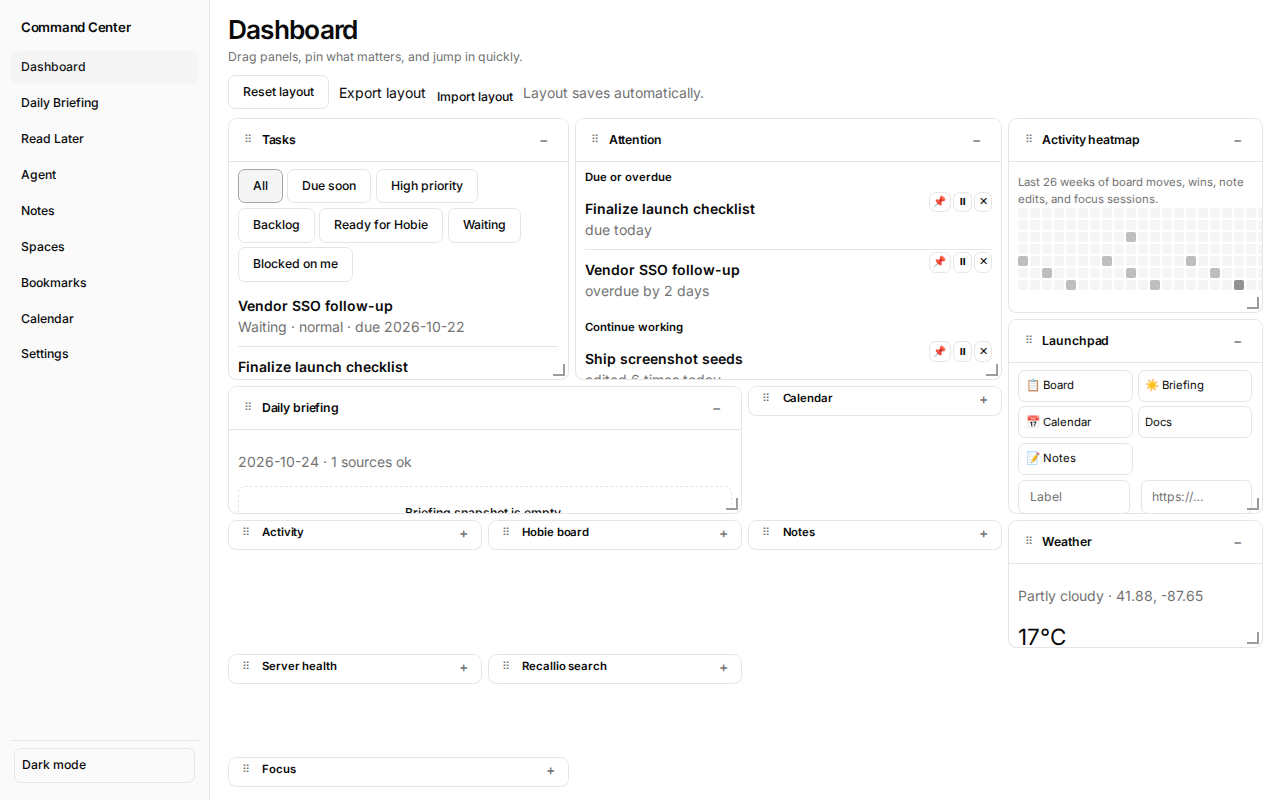
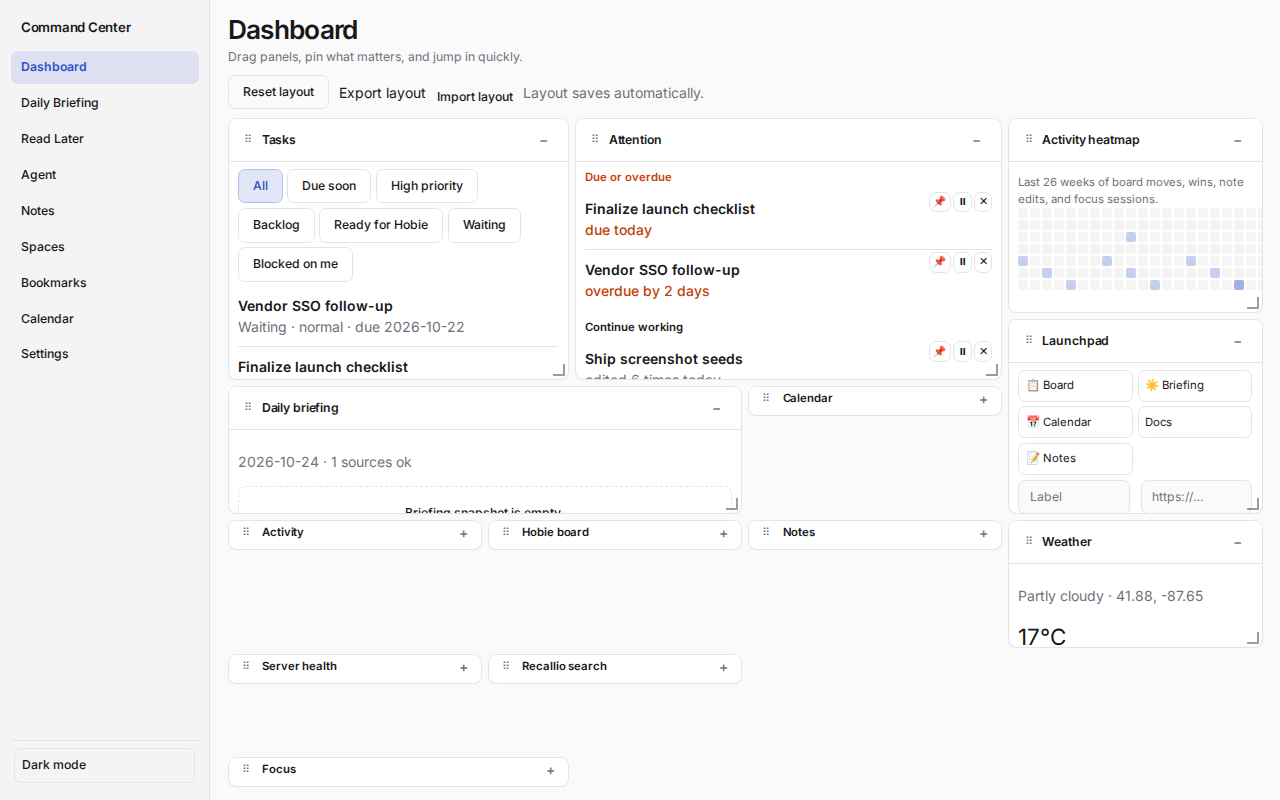
fix(ui): royal selected states in shared component CSS
Use --selected tokens for ui-tabs and pressed buttons; --primary for host
metric bars; theme --warning on warning badge only. Refresh view-cleanup-a
after screenshots.

diff --git a/apps/server/src/ui/component-css.ts b/apps/server/src/ui/component-css.ts
@@ -3,7 +3,9 @@ export const COMPONENT_CSS = `
 .sr-only,.visually-hidden{position:absolute;width:1px;height:1px;padding:0;margin:-1px;overflow:hidden;clip:rect(0,0,0,0);white-space:nowrap;border:0}
 .btn-secondary{background:var(--secondary);color:var(--secondary-foreground);border-color:transparent}
 .btn-outline{background:transparent;color:var(--foreground);border-color:var(--border)}
-.btn-outline:hover{background:var(--accent)}
+.btn-outline:hover{background:var(--selected);color:var(--selected-foreground)}
+button[aria-pressed=true]:not(.ghost),.btn[aria-pressed=true]:not(.ghost){
+  background:var(--selected);color:var(--selected-foreground);border-color:color-mix(in srgb,var(--primary) 28%,var(--border))}
 .btn-destructive{background:var(--destructive);color:var(--primary-foreground);border-color:transparent}
 .btn-link{background:transparent;color:var(--foreground);border-color:transparent;padding:0;min-height:auto;text-decoration:underline;text-underline-offset:3px}
 .btn-link:hover{opacity:1;text-decoration-thickness:2px}
@@ -19,10 +21,10 @@ export const COMPONENT_CSS = `
 .ui-badge-secondary{background:var(--muted);color:var(--muted-foreground)}
 .ui-badge-outline{background:transparent;color:var(--foreground)}
 .ui-badge-destructive{background:color-mix(in srgb,var(--destructive) 12%,transparent);color:var(--destructive);border-color:color-mix(in srgb,var(--destructive) 35%,var(--border))}
-.ui-badge-warning{background:color-mix(in srgb,var(--warning, #ca8a04) 15%,transparent);color:var(--warning, #ca8a04);border-color:color-mix(in srgb,var(--warning, #ca8a04) 35%,var(--border))}
+.ui-badge-warning{background:color-mix(in srgb,var(--warning) 15%,transparent);color:var(--warning);border-color:color-mix(in srgb,var(--warning) 35%,var(--border))}
 .ui-tabs{display:flex;gap:1.25rem;border-bottom:1px solid var(--border);margin-bottom:1rem;overflow:auto}
 .ui-tabs a{padding:.65rem 0;white-space:nowrap;color:var(--muted-foreground);font-size:.875rem;font-weight:500}
-.ui-tabs a[aria-current=page]{color:var(--foreground);border-bottom:2px solid var(--foreground);font-weight:600}
+.ui-tabs a[aria-current=page]{color:var(--selected-foreground);border-bottom:2px solid var(--selected-foreground);font-weight:600}
 .ui-table{width:100%;border-collapse:collapse;font-size:.875rem}
 .ui-table th,.ui-table td{text-align:left;padding:.4rem .35rem;border-top:1px solid var(--border);vertical-align:top}
 .ui-table thead th{border-top:0;color:var(--muted-foreground);font-weight:500;font-size:.8125rem}
@@ -61,7 +63,7 @@ export const COMPONENT_CSS = `
 .focus-actions{margin:.35rem 0}
 .focus-timer{font-size:1.1rem;font-weight:600;margin:.35rem 0 0}
 .host-metric-bar{background:var(--border);border-radius:6px;height:8px;flex:1;min-width:80px}
-.host-metric-bar>span{display:block;height:100%;background:var(--accent);border-radius:6px}
+.host-metric-bar>span{display:block;height:100%;background:var(--primary);border-radius:6px}
 .weather-temp{font-size:1.6rem;margin:.2em 0}
 .weather-meta{margin:0}
 #panel-notes textarea{width:100%;min-height:8rem;font-family:inherit}
